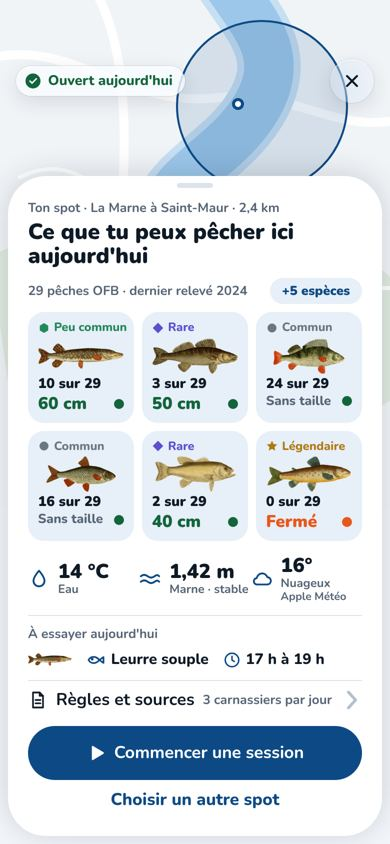
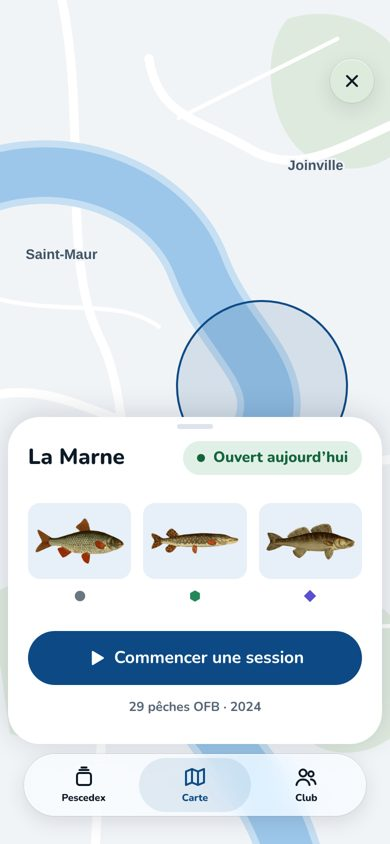
Design : fiche du spot P07 épurée (sans taille ni poids)
Claude-Session: https://claude.ai/code/session_01SHD9N8ay5HXbeEQZKxhWVP

diff --git a/docs/design/maquettes/P07-fiche-A.dc.html b/docs/design/maquettes/P07-fiche-A.dc.html
@@ -12,53 +12,19 @@
 <link rel="stylesheet" href="https://fonts.googleapis.com/css2?family=Nunito:wght@600;700;800;900&amp;display=swap">
 <style>
 body{margin:0}
-.ecran .p07-t{background:var(--tuile);padding:8px 10px 9px}
-.ecran .p07-big{padding:8px 12px 8px}
-.p07-t{position:relative;display:flex;flex-direction:column;align-items:stretch;text-align:left;min-width:0;background:var(--tuile);border-radius:16px;padding:8px 9px 9px;gap:2px}
-.p07-t .rar{font-size:12px;gap:4px}.p07-t .rar svg{width:12px;height:12px}
-.p07-im{display:grid;place-items:center;height:36px}
-.p07-im img{width:100%;height:36px}
-.p07-t b{font-size:14px;font-weight:900;color:var(--encre);font-variant-numeric:tabular-nums;line-height:1.15}
-.p07-bas{display:flex;align-items:center;justify-content:space-between;gap:6px}
-.p07-bas i{font-style:normal;font-size:17px;font-weight:900;color:var(--ouvert);line-height:1.15}
-.p07-bas.f i{color:var(--alerte)}
-.p07-bas i.n{font-size:13px;color:var(--encre-douce);font-weight:800}
-.p07-pt{width:10px;height:10px;border-radius:5px;flex:none}
-.p07-pt.o{background:var(--ouvert)}.p07-pt.f{background:var(--alerte)}
-.p07-chip{display:inline-flex;align-items:center;gap:6px;height:30px;padding:0 12px 0 8px;border-radius:15px;background:var(--ouvert-doux);color:var(--ouvert);font-size:14px;font-weight:800;white-space:nowrap}
-.p07-chip svg{width:18px;height:18px}
-.p07-cond{display:grid;grid-template-columns:1fr 1fr 1fr}
-.p07-c{display:flex;align-items:center;gap:8px;min-width:0}
-.p07-c svg{color:var(--marine)}
-.p07-c b{display:block;font-size:20px;font-weight:900;line-height:1.05;font-variant-numeric:tabular-nums;color:var(--encre)}
-.p07-c span{display:block;font-size:12px;font-weight:700;color:var(--encre-douce);line-height:1.2}
-.p07-conseil{display:flex;align-items:center;gap:14px;font-size:15px;font-weight:800;color:var(--encre);white-space:nowrap}
-.p07-conseil .e{display:flex;align-items:center;gap:5px}
-.p07-conseil svg{color:var(--marine)}
-.p07-conseil img{width:44px;height:24px}
-.p07-lien{display:flex;align-items:center;gap:8px;font-size:15px;font-weight:800;color:var(--marine);width:100%;height:36px}
-.p07-lien svg{width:20px;height:20px}
-
-.p07-plus{display:inline-flex;align-items:center;height:30px;padding:0 12px;border-radius:15px;background:var(--tuile);color:var(--marine);font-size:14px;font-weight:900}
-.p07-chip.verre{background:var(--verre);color:var(--ouvert)}
-
+.p07-ouvert,button.p07-ouvert{display:inline-flex;align-items:center;gap:8px;height:34px;padding:0 14px;border-radius:17px;background:#E1F0E7;color:#13643B;font-size:15px;font-weight:800;border:0;font-family:inherit}
+.p07-ouvert i{width:8px;height:8px;border-radius:4px;background:var(--ouvert)}
+.p07-f{flex:1;display:flex;flex-direction:column;align-items:center;gap:10px}
+.p07-f .rar svg{width:14px;height:14px}
 </style>
 </helmet>
-<div class="ecran">
-<img class="fond-carte" style="top:-338px" src="/_blob/358f1ded92a9e441995d46a2c2f81624" alt="Carte de la Marne"><div class="spot-cercle" style="left:176px;top:20px;width:172px;height:172px"></div><span class="station" style="left:232px;top:98px"></span>
-<div style="position:absolute;left:16px;right:16px;top:59px;display:flex;justify-content:space-between;align-items:center"><span class="p07-chip verre"><svg viewBox="0 0 24 24" aria-hidden="true" style="width:18px;height:18px;flex:none;"><path fill="currentColor" d="M12 2a10 10 0 1 0 0 20 10 10 0 0 0 0-20Zm-1.3 14.2-4-4 1.4-1.4 2.6 2.6 5.6-5.6 1.4 1.4Z"/></svg>Ouvert aujourd'hui</span><button class="rond verre" aria-label="Fermer" style="color:var(--encre)"><svg viewBox="0 0 24 24" aria-hidden="true" style="width:20px;height:20px;flex:none;"><path fill="none" stroke="currentColor" stroke-width="2.4" stroke-linecap="round" d="M6 6l12 12M18 6 6 18"/></svg></button></div>
-<div class="feuille" style="top:176px;bottom:8px;display:flex;flex-direction:column;padding-bottom:16px"><div class="poignee"></div>
-<div class="t-legende" style="white-space:nowrap">Ton spot · La Marne à Saint-Maur · 2,4 km</div>
-<h1 style="font-size:22px;font-weight:900;line-height:1.1;margin-top:3px">Ce que tu peux pêcher ici aujourd'hui</h1>
-<div style="display:flex;justify-content:space-between;align-items:center;margin-top:10px"><span class="t-legende">29 pêches OFB · dernier relevé 2024</span><span class="p07-plus" style="height:26px;font-size:13px">+5 espèces</span></div>
-<div style="display:grid;grid-template-columns:repeat(3,1fr);gap:8px;margin-top:8px"><button class="p07-t " aria-label="Brochet, peu commun, 10 pêches sur 29, taille minimale 60 cm, ouvert"><span class="rar pc"><svg viewBox="0 0 16 16" fill="currentColor" aria-hidden="true"><path d="M8 1.5 13.6 4.75v6.5L8 14.5 2.4 11.25v-6.5Z"/></svg><span>Peu commun</span></span><span class="p07-im"><img class="poisson" src="/_blob/325cfac7b539aef705c1b3f944fa8bcf" alt=""></span><b>10 sur 29</b><span class="p07-bas"><i class="">60 cm</i><span class="p07-pt o"></span></span></button><button class="p07-t " aria-label="Sandre, rare, 3 pêches sur 29, taille minimale 50 cm, ouvert"><span class="rar r"><svg viewBox="0 0 16 16" fill="currentColor" aria-hidden="true"><path d="M8 1 15 8 8 15 1 8Z"/></svg><span>Rare</span></span><span class="p07-im"><img class="poisson" src="/_blob/64752134d1301c8ae5245b9230566c2d" alt=""></span><b>3 sur 29</b><span class="p07-bas"><i class="">50 cm</i><span class="p07-pt o"></span></span></button><button class="p07-t " aria-label="Perche, commun, 24 pêches sur 29, ouvert"><span class="rar c"><svg viewBox="0 0 16 16" fill="currentColor" aria-hidden="true"><circle cx="8" cy="8" r="6"/></svg><span>Commun</span></span><span class="p07-im"><img class="poisson" src="/_blob/0af5e5e6f274e011d4317ff12600a103" alt=""></span><b>24 sur 29</b><span class="p07-bas"><i class="n">Sans taille</i><span class="p07-pt o"></span></span></button><button class="p07-t " aria-label="Gardon, commun, 16 pêches sur 29, ouvert"><span class="rar c"><svg viewBox="0 0 16 16" fill="currentColor" aria-hidden="true"><circle cx="8" cy="8" r="6"/></svg><span>Commun</span></span><span class="p07-im"><img class="poisson" src="/_blob/4799d66fb5fc82ab53e0051d38867b2d" alt=""></span><b>16 sur 29</b><span class="p07-bas"><i class="n">Sans taille</i><span class="p07-pt o"></span></span></button><button class="p07-t " aria-label="Black-bass, rare, 2 pêches sur 29, taille minimale 40 cm, ouvert"><span class="rar r"><svg viewBox="0 0 16 16" fill="currentColor" aria-hidden="true"><path d="M8 1 15 8 8 15 1 8Z"/></svg><span>Rare</span></span><span class="p07-im"><img class="poisson" src="/_blob/822cd2aa2361109755135f4ca4af8f47" alt=""></span><b>2 sur 29</b><span class="p07-bas"><i class="">40 cm</i><span class="p07-pt o"></span></span></button><button class="p07-t " aria-label="Truite fario, légendaire, 0 pêches sur 29, fermé"><span class="rar l"><svg viewBox="0 0 16 16" fill="currentColor" aria-hidden="true"><path d="m8 1 2.1 4.4 4.9.6-3.6 3.4.9 4.8L8 11.9l-4.3 2.3.9-4.8L1 6l4.9-.6Z"/></svg><span>Légendaire</span></span><span class="p07-im"><img class="poisson" src="/_blob/9c9a3e6836050e27289055b62c3d60d5" alt=""></span><b>0 sur 29</b><span class="p07-bas f"><i>Fermé</i><span class="p07-pt f"></span></span></button></div>
-<div class="p07-cond" style="margin-top:14px"><div class="p07-c"><svg viewBox="0 0 24 24" aria-hidden="true" style="width:22px;height:22px;flex:none;"><path fill="none" stroke="currentColor" stroke-width="2" stroke-linecap="round" stroke-linejoin="round" d="M12 3s6 6.5 6 11a6 6 0 0 1-12 0c0-4.5 6-11 6-11Z"/></svg><div><b>14 °C</b><span>Eau</span></div></div><div class="p07-c"><svg viewBox="0 0 24 24" aria-hidden="true" style="width:22px;height:22px;flex:none;"><path fill="none" stroke="currentColor" stroke-width="2" stroke-linecap="round" d="M2 9c2.5-2 5-2 7.5 0s5 2 7.5 0 3.5-1.5 5 0M2 15c2.5-2 5-2 7.5 0s5 2 7.5 0 3.5-1.5 5 0"/></svg><div><b>1,42 m</b><span>Marne · stable</span></div></div><div class="p07-c"><svg viewBox="0 0 24 24" aria-hidden="true" style="width:22px;height:22px;flex:none;"><path fill="none" stroke="currentColor" stroke-width="2" stroke-linejoin="round" d="M7 18h10.5a4 4 0 0 0 .4-8A6 6 0 0 0 6.3 11 3.5 3.5 0 0 0 7 18Z"/></svg><div><b>16°</b><span>Nuageux</span><span style="font-size:11px">Apple Météo</span></div></div></div>
-<div style="height:.5px;background:var(--filet);margin-top:12px"></div>
-<div style="margin-top:10px"><div class="t-legende" style="margin-bottom:5px">À essayer aujourd&#39;hui</div><div class="p07-conseil"><span class="e"><img class="poisson" src="/_blob/325cfac7b539aef705c1b3f944fa8bcf" alt="Brochet"></span><span class="e"><svg viewBox="0 0 24 24" aria-hidden="true" style="width:20px;height:20px;flex:none;"><g fill="none" stroke="currentColor" stroke-width="2" stroke-linecap="round" stroke-linejoin="round"><path d="M3 12c3-5 9-5 13 0-4 5-10 5-13 0Z"/><path d="M16 12l5-3.5v7Z"/><circle cx="7.5" cy="11" r=".6" fill="currentColor"/></g></svg>Leurre souple</span><span class="e"><svg viewBox="0 0 24 24" aria-hidden="true" style="width:18px;height:18px;flex:none;"><g fill="none" stroke="currentColor" stroke-width="2" stroke-linecap="round"><circle cx="12" cy="12" r="9"/><path d="M12 7v5l3 2"/></g></svg>17 h à 19 h</span></div></div>
-<div style="height:.5px;background:var(--filet);margin-top:8px"></div>
-<button class="p07-lien" style="margin-top:2px"><svg viewBox="0 0 24 24" aria-hidden="true" style="width:20px;height:20px;flex:none;"><g fill="none" stroke="currentColor" stroke-width="2" stroke-linecap="round" stroke-linejoin="round"><path d="M6 3h8l4 4v14H6Z"/><path d="M14 3v4h4M9 12h6M9 16h6"/></g></svg><span style="white-space:nowrap">Règles et sources</span><span class="t-legende" style="margin-left:auto;white-space:nowrap">3 carnassiers par jour</span><svg class="chevron" style="margin-left:2px" viewBox="0 0 8 14" aria-hidden="true"><path fill="none" stroke="currentColor" stroke-width="2" stroke-linecap="round" stroke-linejoin="round" d="m1.5 1.5 5 5.5-5 5.5"/></svg></button>
-<div style="margin-top:auto"><button class="btn pri"><svg viewBox="0 0 24 24" aria-hidden="true" style="width:20px;height:20px;flex:none;"><path fill="currentColor" d="M7 4.5v15a1 1 0 0 0 1.5.86l12.5-7.5a1 1 0 0 0 0-1.72L8.5 3.64A1 1 0 0 0 7 4.5Z"/></svg>Commencer une session</button><button class="lien" style="height:40px">Choisir un autre spot</button></div></div>
-</div>
+<div class="ecran"><img class="fond-carte" src="/_blob/358f1ded92a9e441995d46a2c2f81624" alt="Carte de la Marne"><div class="spot-cercle" style="left:176px;top:300px;width:172px;height:172px"></div>
+<button class="rond verre" aria-label="Fermer" style="position:absolute;right:16px;top:59px;color:var(--encre)"><svg viewBox="0 0 24 24" aria-hidden="true"><path fill="none" stroke="currentColor" stroke-width="2.4" stroke-linecap="round" d="M6 6l12 12M18 6 6 18"/></svg></button>
+<div class="feuille au-dessus" style="padding-bottom:28px"><div class="poignee"></div>
+<div style="display:flex;justify-content:space-between;align-items:center;margin-top:8px"><h2 class="t-titre">La Marne</h2><button class="p07-ouvert" aria-label="Ouvert aujourd'hui, voir les règles"><i></i>Ouvert aujourd’hui</button></div>
+<div style="display:flex;gap:12px;margin:28px 0 28px"><div class="p07-f"><div class="tuile-poisson" style="width:100%;height:76px"><img class="poisson" src="/_blob/4799d66fb5fc82ab53e0051d38867b2d" alt="gardon" style="width:86%;height:48px"></div><span class="rar c"><svg viewBox="0 0 16 16" fill="currentColor" aria-hidden="true"><circle cx="8" cy="8" r="6"/></svg></span></div><div class="p07-f"><div class="tuile-poisson" style="width:100%;height:76px"><img class="poisson" src="/_blob/325cfac7b539aef705c1b3f944fa8bcf" alt="brochet" style="width:86%;height:48px"></div><span class="rar pc"><svg viewBox="0 0 16 16" fill="currentColor" aria-hidden="true"><path d="M8 1.5 13.6 4.75v6.5L8 14.5 2.4 11.25v-6.5Z"/></svg></span></div><div class="p07-f"><div class="tuile-poisson" style="width:100%;height:76px"><img class="poisson" src="/_blob/64752134d1301c8ae5245b9230566c2d" alt="sandre" style="width:86%;height:48px"></div><span class="rar r"><svg viewBox="0 0 16 16" fill="currentColor" aria-hidden="true"><path d="M8 1 15 8 8 15 1 8Z"/></svg></span></div></div>
+<button class="btn pri"><svg viewBox="0 0 24 24" aria-hidden="true"><path fill="currentColor" d="M7 4.5v15a1 1 0 0 0 1.5.86l12.5-7.5a1 1 0 0 0 0-1.72L8.5 3.64A1 1 0 0 0 7 4.5Z"/></svg>Commencer une session</button>
+<div class="t-legende" style="text-align:center;margin-top:14px">29 pêches OFB · 2024</div></div><nav class="onglets verre" aria-label="Volets"><a class="onglet" href="#"><svg viewBox="0 0 24 24" fill="none" stroke="currentColor" stroke-width="2" stroke-linejoin="round" aria-hidden="true"><rect x="5" y="8" width="14" height="12" rx="2.5"/><path d="M7.5 5h9M9.5 2.5h5" stroke-linecap="round"/></svg><span>Pescedex</span></a><a class="onglet on" href="#"><svg viewBox="0 0 24 24" fill="none" stroke="currentColor" stroke-width="2" stroke-linejoin="round" aria-hidden="true"><path d="M3 6.5 9 4l6 2.5L21 4v13.5L15 20l-6-2.5L3 20Z"/><path d="M9 4v13.5M15 6.5V20"/></svg><span>Carte</span></a><a class="onglet" href="#"><svg viewBox="0 0 24 24" fill="none" stroke="currentColor" stroke-width="2" stroke-linecap="round" aria-hidden="true"><circle cx="9" cy="8" r="3.5"/><path d="M2.5 20c.6-3.6 3.3-5.5 6.5-5.5s5.9 1.9 6.5 5.5"/><circle cx="17" cy="9" r="2.6"/><path d="M17 14.4c2.4.2 4 1.8 4.5 4.6"/></svg><span>Club</span></a></nav></div>
 </x-dc>
 <script type="text/x-dc" data-dc-script data-props='{"$preview":{"width":390,"height":844}}'>
 class Component extends DCLogic {

diff --git a/docs/design/maquettes/P07-fiche-C.dc.html b/docs/design/maquettes/P07-fiche-C.dc.html
@@ -12,54 +12,18 @@
 <link rel="stylesheet" href="https://fonts.googleapis.com/css2?family=Nunito:wght@600;700;800;900&amp;display=swap">
 <style>
 body{margin:0}
-.ecran .p07-t{background:var(--tuile);padding:8px 10px 9px}
-.ecran .p07-big{padding:8px 12px 8px}
-.p07-t{position:relative;display:flex;flex-direction:column;align-items:stretch;text-align:left;min-width:0;background:var(--tuile);border-radius:16px;padding:8px 9px 9px;gap:2px}
-.p07-t .rar{font-size:12px;gap:4px}.p07-t .rar svg{width:12px;height:12px}
-.p07-im{display:grid;place-items:center;height:36px}
-.p07-im img{width:100%;height:36px}
-.p07-t b{font-size:14px;font-weight:900;color:var(--encre);font-variant-numeric:tabular-nums;line-height:1.15}
-.p07-bas{display:flex;align-items:center;justify-content:space-between;gap:6px}
-.p07-bas i{font-style:normal;font-size:17px;font-weight:900;color:var(--ouvert);line-height:1.15}
-.p07-bas.f i{color:var(--alerte)}
-.p07-bas i.n{font-size:13px;color:var(--encre-douce);font-weight:800}
-.p07-pt{width:10px;height:10px;border-radius:5px;flex:none}
-.p07-pt.o{background:var(--ouvert)}.p07-pt.f{background:var(--alerte)}
-.p07-chip{display:inline-flex;align-items:center;gap:6px;height:30px;padding:0 12px 0 8px;border-radius:15px;background:var(--ouvert-doux);color:var(--ouvert);font-size:14px;font-weight:800;white-space:nowrap}
-.p07-chip svg{width:18px;height:18px}
-.p07-cond{display:grid;grid-template-columns:1fr 1fr 1fr}
-.p07-c{display:flex;align-items:center;gap:8px;min-width:0}
-.p07-c svg{color:var(--marine)}
-.p07-c b{display:block;font-size:20px;font-weight:900;line-height:1.05;font-variant-numeric:tabular-nums;color:var(--encre)}
-.p07-c span{display:block;font-size:12px;font-weight:700;color:var(--encre-douce);line-height:1.2}
-.p07-conseil{display:flex;align-items:center;gap:14px;font-size:15px;font-weight:800;color:var(--encre);white-space:nowrap}
-.p07-conseil .e{display:flex;align-items:center;gap:5px}
-.p07-conseil svg{color:var(--marine)}
-.p07-conseil img{width:44px;height:24px}
-.p07-lien{display:flex;align-items:center;gap:8px;font-size:15px;font-weight:800;color:var(--marine);width:100%;height:36px}
-.p07-lien svg{width:20px;height:20px}
-
-.p07-plus{display:inline-flex;align-items:center;height:30px;padding:0 12px;border-radius:15px;background:var(--tuile);color:var(--marine);font-size:14px;font-weight:900}
-.p07-big{gap:2px;border-radius:20px}
-.p07-big .rar{font-size:13px}.p07-big .rar svg{width:14px;height:14px}
-.p07-big .p07-im{height:30px}.p07-big .p07-im img{height:30px;width:92%}
-.p07-big b{font-size:14px;color:var(--encre-douce)}
-.p07-big .p07-bas i{font-size:19px}.p07-big .p07-bas i.n{font-size:14px}
-
+.p07-ouvert,button.p07-ouvert{display:inline-flex;align-items:center;gap:8px;height:34px;padding:0 14px;border-radius:17px;background:#E1F0E7;color:#13643B;font-size:15px;font-weight:800;border:0;font-family:inherit}
+.p07-ouvert i{width:8px;height:8px;border-radius:4px;background:var(--ouvert)}
+.p07-f{flex:1;display:flex;flex-direction:column;align-items:center;gap:10px}
+.p07-f .rar svg{width:14px;height:14px}
 </style>
 </helmet>
 <div class="ecran blanc">
-<div style="position:absolute;left:16px;right:16px;top:59px;display:flex;justify-content:space-between;align-items:center;height:28px"><span class="t-detail" style="display:flex;gap:6px;align-items:center;color:var(--encre);white-space:nowrap"><svg style="width:16px;height:16px;color:var(--marine)" viewBox="0 0 24 24" aria-hidden="true"><path fill="currentColor" d="M12 2a7 7 0 0 0-7 7c0 5 7 13 7 13s7-8 7-13a7 7 0 0 0-7-7Zm0 9.5A2.5 2.5 0 1 1 12 6.5a2.5 2.5 0 0 1 0 5Z"/></svg>Ton spot · La Marne à Saint-Maur</span><span class="t-detail">2,4 km</span></div>
-<div style="position:absolute;left:16px;right:16px;top:94px"><h1 style="font-size:28px;font-weight:900;line-height:1.05;letter-spacing:-.01em">Ce que tu peux pêcher ici aujourd'hui</h1>
-<div style="margin-top:8px"><span class="p07-chip"><svg viewBox="0 0 24 24" aria-hidden="true" style="width:18px;height:18px;flex:none;"><path fill="currentColor" d="M12 2a10 10 0 1 0 0 20 10 10 0 0 0 0-20Zm-1.3 14.2-4-4 1.4-1.4 2.6 2.6 5.6-5.6 1.4 1.4Z"/></svg>Ouvert aujourd'hui</span></div>
-<div style="display:grid;grid-template-columns:1fr 1fr;gap:6px;margin-top:10px"><button class="p07-t p07-big" aria-label="Brochet, peu commun, 10 pêches sur 29, taille minimale 60 cm, ouvert"><span class="rar pc"><svg viewBox="0 0 16 16" fill="currentColor" aria-hidden="true"><path d="M8 1.5 13.6 4.75v6.5L8 14.5 2.4 11.25v-6.5Z"/></svg><span>Peu commun</span></span><span class="p07-im"><img class="poisson" src="/_blob/325cfac7b539aef705c1b3f944fa8bcf" alt=""></span><b>10 sur 29</b><span class="p07-bas"><i class="">60 cm</i><span class="p07-pt o"></span></span></button><button class="p07-t p07-big" aria-label="Sandre, rare, 3 pêches sur 29, taille minimale 50 cm, ouvert"><span class="rar r"><svg viewBox="0 0 16 16" fill="currentColor" aria-hidden="true"><path d="M8 1 15 8 8 15 1 8Z"/></svg><span>Rare</span></span><span class="p07-im"><img class="poisson" src="/_blob/64752134d1301c8ae5245b9230566c2d" alt=""></span><b>3 sur 29</b><span class="p07-bas"><i class="">50 cm</i><span class="p07-pt o"></span></span></button><button class="p07-t p07-big" aria-label="Perche, commun, 24 pêches sur 29, ouvert"><span class="rar c"><svg viewBox="0 0 16 16" fill="currentColor" aria-hidden="true"><circle cx="8" cy="8" r="6"/></svg><span>Commun</span></span><span class="p07-im"><img class="poisson" src="/_blob/0af5e5e6f274e011d4317ff12600a103" alt=""></span><b>24 sur 29</b><span class="p07-bas"><i class="n">Sans taille</i><span class="p07-pt o"></span></span></button><button class="p07-t p07-big" aria-label="Gardon, commun, 16 pêches sur 29, ouvert"><span class="rar c"><svg viewBox="0 0 16 16" fill="currentColor" aria-hidden="true"><circle cx="8" cy="8" r="6"/></svg><span>Commun</span></span><span class="p07-im"><img class="poisson" src="/_blob/4799d66fb5fc82ab53e0051d38867b2d" alt=""></span><b>16 sur 29</b><span class="p07-bas"><i class="n">Sans taille</i><span class="p07-pt o"></span></span></button><button class="p07-t p07-big" aria-label="Black-bass, rare, 2 pêches sur 29, taille minimale 40 cm, ouvert"><span class="rar r"><svg viewBox="0 0 16 16" fill="currentColor" aria-hidden="true"><path d="M8 1 15 8 8 15 1 8Z"/></svg><span>Rare</span></span><span class="p07-im"><img class="poisson" src="/_blob/822cd2aa2361109755135f4ca4af8f47" alt=""></span><b>2 sur 29</b><span class="p07-bas"><i class="">40 cm</i><span class="p07-pt o"></span></span></button><button class="p07-t p07-big" aria-label="Truite fario, légendaire, 0 pêches sur 29, fermé"><span class="rar l"><svg viewBox="0 0 16 16" fill="currentColor" aria-hidden="true"><path d="m8 1 2.1 4.4 4.9.6-3.6 3.4.9 4.8L8 11.9l-4.3 2.3.9-4.8L1 6l4.9-.6Z"/></svg><span>Légendaire</span></span><span class="p07-im"><img class="poisson" src="/_blob/9c9a3e6836050e27289055b62c3d60d5" alt=""></span><b>0 sur 29</b><span class="p07-bas f"><i>Fermé</i><span class="p07-pt f"></span></span></button></div>
-<div style="display:flex;justify-content:space-between;align-items:center;margin-top:8px"><span class="t-legende">29 pêches OFB · dernier relevé 2024</span><span class="p07-plus" style="height:24px;font-size:13px;background:none;padding:0">+5 espèces ›</span></div>
-<div class="p07-cond" style="margin-top:8px"><div class="p07-c"><svg viewBox="0 0 24 24" aria-hidden="true" style="width:22px;height:22px;flex:none;"><path fill="none" stroke="currentColor" stroke-width="2" stroke-linecap="round" stroke-linejoin="round" d="M12 3s6 6.5 6 11a6 6 0 0 1-12 0c0-4.5 6-11 6-11Z"/></svg><div><b>14 °C</b><span>Eau</span></div></div><div class="p07-c"><svg viewBox="0 0 24 24" aria-hidden="true" style="width:22px;height:22px;flex:none;"><path fill="none" stroke="currentColor" stroke-width="2" stroke-linecap="round" d="M2 9c2.5-2 5-2 7.5 0s5 2 7.5 0 3.5-1.5 5 0M2 15c2.5-2 5-2 7.5 0s5 2 7.5 0 3.5-1.5 5 0"/></svg><div><b>1,42 m</b><span>Marne · stable</span></div></div><div class="p07-c"><svg viewBox="0 0 24 24" aria-hidden="true" style="width:22px;height:22px;flex:none;"><path fill="none" stroke="currentColor" stroke-width="2" stroke-linejoin="round" d="M7 18h10.5a4 4 0 0 0 .4-8A6 6 0 0 0 6.3 11 3.5 3.5 0 0 0 7 18Z"/></svg><div><b>16°</b><span>Nuageux</span><span style="font-size:11px">Apple Météo</span></div></div></div>
-<div style="margin-top:8px"><div class="t-legende" style="margin-bottom:5px">À essayer aujourd&#39;hui</div><div class="p07-conseil"><span class="e"><img class="poisson" src="/_blob/325cfac7b539aef705c1b3f944fa8bcf" alt="Brochet"></span><span class="e"><svg viewBox="0 0 24 24" aria-hidden="true" style="width:20px;height:20px;flex:none;"><g fill="none" stroke="currentColor" stroke-width="2" stroke-linecap="round" stroke-linejoin="round"><path d="M3 12c3-5 9-5 13 0-4 5-10 5-13 0Z"/><path d="M16 12l5-3.5v7Z"/><circle cx="7.5" cy="11" r=".6" fill="currentColor"/></g></svg>Leurre souple</span><span class="e"><svg viewBox="0 0 24 24" aria-hidden="true" style="width:18px;height:18px;flex:none;"><g fill="none" stroke="currentColor" stroke-width="2" stroke-linecap="round"><circle cx="12" cy="12" r="9"/><path d="M12 7v5l3 2"/></g></svg>17 h à 19 h</span></div></div>
-<button class="p07-lien" style="margin-top:2px"><svg viewBox="0 0 24 24" aria-hidden="true" style="width:20px;height:20px;flex:none;"><g fill="none" stroke="currentColor" stroke-width="2" stroke-linecap="round" stroke-linejoin="round"><path d="M6 3h8l4 4v14H6Z"/><path d="M14 3v4h4M9 12h6M9 16h6"/></g></svg><span style="white-space:nowrap">Règles et sources</span><span class="t-legende" style="margin-left:auto;white-space:nowrap">3 carnassiers par jour</span><svg class="chevron" style="margin-left:2px" viewBox="0 0 8 14" aria-hidden="true"><path fill="none" stroke="currentColor" stroke-width="2" stroke-linecap="round" stroke-linejoin="round" d="m1.5 1.5 5 5.5-5 5.5"/></svg></button>
-</div>
-<div style="position:absolute;left:16px;right:16px;bottom:24px"><button class="btn pri"><svg viewBox="0 0 24 24" aria-hidden="true" style="width:20px;height:20px;flex:none;"><path fill="currentColor" d="M7 4.5v15a1 1 0 0 0 1.5.86l12.5-7.5a1 1 0 0 0 0-1.72L8.5 3.64A1 1 0 0 0 7 4.5Z"/></svg>Commencer une session</button><button class="lien" style="height:40px">Choisir un autre spot</button></div>
-</div>
+<div class="haut" style="display:flex;justify-content:space-between;align-items:center"><span class="t-detail" style="display:flex;gap:6px;align-items:center;color:var(--encre)"><svg style="width:16px;height:16px;color:var(--marine)" viewBox="0 0 24 24" aria-hidden="true"><path fill="currentColor" d="M12 2a7 7 0 0 0-7 7c0 5 7 13 7 13s7-8 7-13a7 7 0 0 0-7-7Zm0 9.5A2.5 2.5 0 1 1 12 6.5a2.5 2.5 0 0 1 0 5Z"/></svg>La Marne</span><button class="rond" aria-label="Fermer" style="background:var(--tuile);color:var(--encre)"><svg viewBox="0 0 24 24" aria-hidden="true"><path fill="none" stroke="currentColor" stroke-width="2.4" stroke-linecap="round" d="M6 6l12 12M18 6 6 18"/></svg></button></div>
+<img class="poisson" src="/_blob/64752134d1301c8ae5245b9230566c2d" alt="Sandre" style="position:absolute;left:20px;top:200px;width:350px;height:170px">
+<div style="position:absolute;left:0;right:0;top:396px;display:flex;flex-direction:column;align-items:center;gap:10px"><h1 class="t-grand">Sandre</h1><span class="rar r"><svg viewBox="0 0 16 16" fill="currentColor" aria-hidden="true"><path d="M8 1 15 8 8 15 1 8Z"/></svg><span>Rare</span></span></div>
+<div style="position:absolute;left:0;right:0;top:530px;display:flex;flex-direction:column;align-items:center;gap:22px"><div style="display:flex;gap:28px;align-items:flex-end"><div class="p07-f"><img class="poisson" src="/_blob/4799d66fb5fc82ab53e0051d38867b2d" alt="gardon" style="width:78px;height:38px"><span class="rar c"><svg viewBox="0 0 16 16" fill="currentColor" aria-hidden="true"><circle cx="8" cy="8" r="6"/></svg></span></div><div class="p07-f"><img class="poisson" src="/_blob/325cfac7b539aef705c1b3f944fa8bcf" alt="brochet" style="width:78px;height:38px"><span class="rar pc"><svg viewBox="0 0 16 16" fill="currentColor" aria-hidden="true"><path d="M8 1.5 13.6 4.75v6.5L8 14.5 2.4 11.25v-6.5Z"/></svg></span></div><div class="p07-f"><img class="poisson" src="/_blob/0af5e5e6f274e011d4317ff12600a103" alt="perche" style="width:78px;height:38px"><span class="rar c"><svg viewBox="0 0 16 16" fill="currentColor" aria-hidden="true"><circle cx="8" cy="8" r="6"/></svg></span></div></div><button class="p07-ouvert" aria-label="Ouvert aujourd'hui, voir les règles"><i></i>Ouvert aujourd’hui</button></div>
+<div style="position:absolute;left:16px;right:16px;bottom:48px"><button class="btn pri"><svg viewBox="0 0 24 24" aria-hidden="true"><path fill="currentColor" d="M7 4.5v15a1 1 0 0 0 1.5.86l12.5-7.5a1 1 0 0 0 0-1.72L8.5 3.64A1 1 0 0 0 7 4.5Z"/></svg>Commencer une session</button><div class="t-legende" style="text-align:center;margin-top:14px">29 pêches OFB · 2024</div></div></div>
 </x-dc>
 <script type="text/x-dc" data-dc-script data-props='{"$preview":{"width":390,"height":844}}'>
 class Component extends DCLogic {

diff --git a/docs/design/maquettes/P07-fiche-B.dc.html b/docs/design/maquettes/P07-fiche-B.dc.html
@@ -12,48 +12,19 @@
 <link rel="stylesheet" href="https://fonts.googleapis.com/css2?family=Nunito:wght@600;700;800;900&amp;display=swap">
 <style>
 body{margin:0}
-.ecran .p07-t{background:var(--tuile);padding:8px 10px 9px}
-.ecran .p07-big{padding:8px 12px 8px}
-.p07-t{position:relative;display:flex;flex-direction:column;align-items:stretch;text-align:left;min-width:0;background:var(--tuile);border-radius:16px;padding:8px 9px 9px;gap:2px}
-.p07-t .rar{font-size:12px;gap:4px}.p07-t .rar svg{width:12px;height:12px}
-.p07-im{display:grid;place-items:center;height:36px}
-.p07-im img{width:100%;height:36px}
-.p07-t b{font-size:14px;font-weight:900;color:var(--encre);font-variant-numeric:tabular-nums;line-height:1.15}
-.p07-bas{display:flex;align-items:center;justify-content:space-between;gap:6px}
-.p07-bas i{font-style:normal;font-size:17px;font-weight:900;color:var(--ouvert);line-height:1.15}
-.p07-bas.f i{color:var(--alerte)}
-.p07-bas i.n{font-size:13px;color:var(--encre-douce);font-weight:800}
-.p07-pt{width:10px;height:10px;border-radius:5px;flex:none}
-.p07-pt.o{background:var(--ouvert)}.p07-pt.f{background:var(--alerte)}
-.p07-chip{display:inline-flex;align-items:center;gap:6px;height:30px;padding:0 12px 0 8px;border-radius:15px;background:var(--ouvert-doux);color:var(--ouvert);font-size:14px;font-weight:800;white-space:nowrap}
-.p07-chip svg{width:18px;height:18px}
-.p07-cond{display:grid;grid-template-columns:1fr 1fr 1fr}
-.p07-c{display:flex;align-items:center;gap:8px;min-width:0}
-.p07-c svg{color:var(--marine)}
-.p07-c b{display:block;font-size:20px;font-weight:900;line-height:1.05;font-variant-numeric:tabular-nums;color:var(--encre)}
-.p07-c span{display:block;font-size:12px;font-weight:700;color:var(--encre-douce);line-height:1.2}
-.p07-conseil{display:flex;align-items:center;gap:14px;font-size:15px;font-weight:800;color:var(--encre);white-space:nowrap}
-.p07-conseil .e{display:flex;align-items:center;gap:5px}
-.p07-conseil svg{color:var(--marine)}
-.p07-conseil img{width:44px;height:24px}
-.p07-lien{display:flex;align-items:center;gap:8px;font-size:15px;font-weight:800;color:var(--marine);width:100%;height:36px}
-.p07-lien svg{width:20px;height:20px}
-
-.p07-plus{display:inline-flex;align-items:center;height:30px;padding:0 12px;border-radius:15px;background:var(--tuile);color:var(--marine);font-size:14px;font-weight:900}
-
+.p07-ouvert,button.p07-ouvert{display:inline-flex;align-items:center;gap:8px;height:34px;padding:0 14px;border-radius:17px;background:#E1F0E7;color:#13643B;font-size:15px;font-weight:800;border:0;font-family:inherit}
+.p07-ouvert i{width:8px;height:8px;border-radius:4px;background:var(--ouvert)}
+.p07-f{flex:1;display:flex;flex-direction:column;align-items:center;gap:10px}
+.p07-f .rar svg{width:14px;height:14px}
 </style>
 </helmet>
 <div class="ecran">
-<div style="position:absolute;left:16px;right:16px;top:59px;display:flex;justify-content:space-between;align-items:center"><button class="rond" aria-label="Retour" style="background:var(--surface);color:var(--marine)"><svg viewBox="0 0 24 24" aria-hidden="true" style="width:20px;height:20px;flex:none;"><path fill="none" stroke="currentColor" stroke-width="2.4" stroke-linecap="round" stroke-linejoin="round" d="M15 5l-7 7 7 7"/></svg></button><span class="p07-chip"><svg viewBox="0 0 24 24" aria-hidden="true" style="width:18px;height:18px;flex:none;"><path fill="currentColor" d="M12 2a10 10 0 1 0 0 20 10 10 0 0 0 0-20Zm-1.3 14.2-4-4 1.4-1.4 2.6 2.6 5.6-5.6 1.4 1.4Z"/></svg>Ouvert aujourd'hui</span></div>
-<div style="position:absolute;left:16px;right:16px;top:112px"><h1 style="font-size:29px;font-weight:900;line-height:1.05;letter-spacing:-.01em">Ce que tu peux pêcher ici aujourd'hui</h1><div class="t-detail" style="margin-top:6px;white-space:nowrap">Ton spot · La Marne à Saint-Maur · 2,4 km</div></div>
-<div style="position:absolute;left:16px;right:16px;top:206px">
-<div style="display:flex;justify-content:space-between;align-items:center;padding:0 4px 6px"><span class="t-legende">29 pêches OFB · dernier relevé 2024</span><span class="p07-plus" style="height:26px;font-size:13px;background:none;padding:0">+5 espèces ›</span></div>
-<div class="groupe" style="padding:8px"><div style="display:grid;grid-template-columns:repeat(3,1fr);gap:8px"><button class="p07-t " aria-label="Brochet, peu commun, 10 pêches sur 29, taille minimale 60 cm, ouvert"><span class="rar pc"><svg viewBox="0 0 16 16" fill="currentColor" aria-hidden="true"><path d="M8 1.5 13.6 4.75v6.5L8 14.5 2.4 11.25v-6.5Z"/></svg><span>Peu commun</span></span><span class="p07-im"><img class="poisson" src="/_blob/325cfac7b539aef705c1b3f944fa8bcf" alt=""></span><b>10 sur 29</b><span class="p07-bas"><i class="">60 cm</i><span class="p07-pt o"></span></span></button><button class="p07-t " aria-label="Sandre, rare, 3 pêches sur 29, taille minimale 50 cm, ouvert"><span class="rar r"><svg viewBox="0 0 16 16" fill="currentColor" aria-hidden="true"><path d="M8 1 15 8 8 15 1 8Z"/></svg><span>Rare</span></span><span class="p07-im"><img class="poisson" src="/_blob/64752134d1301c8ae5245b9230566c2d" alt=""></span><b>3 sur 29</b><span class="p07-bas"><i class="">50 cm</i><span class="p07-pt o"></span></span></button><button class="p07-t " aria-label="Perche, commun, 24 pêches sur 29, ouvert"><span class="rar c"><svg viewBox="0 0 16 16" fill="currentColor" aria-hidden="true"><circle cx="8" cy="8" r="6"/></svg><span>Commun</span></span><span class="p07-im"><img class="poisson" src="/_blob/0af5e5e6f274e011d4317ff12600a103" alt=""></span><b>24 sur 29</b><span class="p07-bas"><i class="n">Sans taille</i><span class="p07-pt o"></span></span></button><button class="p07-t " aria-label="Gardon, commun, 16 pêches sur 29, ouvert"><span class="rar c"><svg viewBox="0 0 16 16" fill="currentColor" aria-hidden="true"><circle cx="8" cy="8" r="6"/></svg><span>Commun</span></span><span class="p07-im"><img class="poisson" src="/_blob/4799d66fb5fc82ab53e0051d38867b2d" alt=""></span><b>16 sur 29</b><span class="p07-bas"><i class="n">Sans taille</i><span class="p07-pt o"></span></span></button><button class="p07-t " aria-label="Black-bass, rare, 2 pêches sur 29, taille minimale 40 cm, ouvert"><span class="rar r"><svg viewBox="0 0 16 16" fill="currentColor" aria-hidden="true"><path d="M8 1 15 8 8 15 1 8Z"/></svg><span>Rare</span></span><span class="p07-im"><img class="poisson" src="/_blob/822cd2aa2361109755135f4ca4af8f47" alt=""></span><b>2 sur 29</b><span class="p07-bas"><i class="">40 cm</i><span class="p07-pt o"></span></span></button><button class="p07-t " aria-label="Truite fario, légendaire, 0 pêches sur 29, fermé"><span class="rar l"><svg viewBox="0 0 16 16" fill="currentColor" aria-hidden="true"><path d="m8 1 2.1 4.4 4.9.6-3.6 3.4.9 4.8L8 11.9l-4.3 2.3.9-4.8L1 6l4.9-.6Z"/></svg><span>Légendaire</span></span><span class="p07-im"><img class="poisson" src="/_blob/9c9a3e6836050e27289055b62c3d60d5" alt=""></span><b>0 sur 29</b><span class="p07-bas f"><i>Fermé</i><span class="p07-pt f"></span></span></button></div></div>
-<div class="groupe" style="padding:14px 12px;margin-top:12px"><div class="p07-cond" style=""><div class="p07-c"><svg viewBox="0 0 24 24" aria-hidden="true" style="width:22px;height:22px;flex:none;"><path fill="none" stroke="currentColor" stroke-width="2" stroke-linecap="round" stroke-linejoin="round" d="M12 3s6 6.5 6 11a6 6 0 0 1-12 0c0-4.5 6-11 6-11Z"/></svg><div><b>14 °C</b><span>Eau</span></div></div><div class="p07-c"><svg viewBox="0 0 24 24" aria-hidden="true" style="width:22px;height:22px;flex:none;"><path fill="none" stroke="currentColor" stroke-width="2" stroke-linecap="round" d="M2 9c2.5-2 5-2 7.5 0s5 2 7.5 0 3.5-1.5 5 0M2 15c2.5-2 5-2 7.5 0s5 2 7.5 0 3.5-1.5 5 0"/></svg><div><b>1,42 m</b><span>Marne · stable</span></div></div><div class="p07-c"><svg viewBox="0 0 24 24" aria-hidden="true" style="width:22px;height:22px;flex:none;"><path fill="none" stroke="currentColor" stroke-width="2" stroke-linejoin="round" d="M7 18h10.5a4 4 0 0 0 .4-8A6 6 0 0 0 6.3 11 3.5 3.5 0 0 0 7 18Z"/></svg><div><b>16°</b><span>Nuageux</span><span style="font-size:11px">Apple Météo</span></div></div></div></div>
-<div class="groupe" style="margin-top:12px"><div class="ligne" style="min-height:64px"><div style=""><div class="t-legende" style="margin-bottom:5px">À essayer aujourd&#39;hui</div><div class="p07-conseil"><span class="e"><img class="poisson" src="/_blob/325cfac7b539aef705c1b3f944fa8bcf" alt="Brochet"></span><span class="e"><svg viewBox="0 0 24 24" aria-hidden="true" style="width:20px;height:20px;flex:none;"><g fill="none" stroke="currentColor" stroke-width="2" stroke-linecap="round" stroke-linejoin="round"><path d="M3 12c3-5 9-5 13 0-4 5-10 5-13 0Z"/><path d="M16 12l5-3.5v7Z"/><circle cx="7.5" cy="11" r=".6" fill="currentColor"/></g></svg>Leurre souple</span><span class="e"><svg viewBox="0 0 24 24" aria-hidden="true" style="width:18px;height:18px;flex:none;"><g fill="none" stroke="currentColor" stroke-width="2" stroke-linecap="round"><circle cx="12" cy="12" r="9"/><path d="M12 7v5l3 2"/></g></svg>17 h à 19 h</span></div></div></div><div class="ligne" style="min-height:48px"><span class="texte" style="display:flex;align-items:center;gap:10px;color:var(--marine);white-space:nowrap"><svg viewBox="0 0 24 24" aria-hidden="true" style="width:20px;height:20px;flex:none;"><g fill="none" stroke="currentColor" stroke-width="2" stroke-linecap="round" stroke-linejoin="round"><path d="M6 3h8l4 4v14H6Z"/><path d="M14 3v4h4M9 12h6M9 16h6"/></g></svg>Règles et sources</span><span class="valeur" style="font-size:13px;white-space:nowrap">3 carnassiers par jour</span><svg class="chevron" viewBox="0 0 8 14" aria-hidden="true"><path fill="none" stroke="currentColor" stroke-width="2" stroke-linecap="round" stroke-linejoin="round" d="m1.5 1.5 5 5.5-5 5.5"/></svg></div></div>
-</div>
-<div style="position:absolute;left:16px;right:16px;bottom:30px"><button class="btn pri"><svg viewBox="0 0 24 24" aria-hidden="true" style="width:20px;height:20px;flex:none;"><path fill="currentColor" d="M7 4.5v15a1 1 0 0 0 1.5.86l12.5-7.5a1 1 0 0 0 0-1.72L8.5 3.64A1 1 0 0 0 7 4.5Z"/></svg>Commencer une session</button><button class="lien" style="height:40px">Choisir un autre spot</button></div>
-</div>
+<div class="haut"></div>
+<div class="zone" style="margin-top:8px"><h1 class="t-grand">La Marne</h1><div class="t-detail" style="margin-top:4px">Ton spot · 2,4 km</div></div>
+<div class="zone" style="margin-top:32px"><div class="groupe" style="padding:20px 16px 16px"><div style="display:flex;gap:12px"><div class="p07-f"><div class="tuile-poisson" style="width:100%;height:84px"><img class="poisson" src="/_blob/4799d66fb5fc82ab53e0051d38867b2d" alt="gardon" style="width:88%;height:50px"></div><span class="rar c"><svg viewBox="0 0 16 16" fill="currentColor" aria-hidden="true"><circle cx="8" cy="8" r="6"/></svg></span></div><div class="p07-f"><div class="tuile-poisson" style="width:100%;height:84px"><img class="poisson" src="/_blob/0af5e5e6f274e011d4317ff12600a103" alt="perche" style="width:88%;height:50px"></div><span class="rar c"><svg viewBox="0 0 16 16" fill="currentColor" aria-hidden="true"><circle cx="8" cy="8" r="6"/></svg></span></div><div class="p07-f"><div class="tuile-poisson" style="width:100%;height:84px"><img class="poisson" src="/_blob/325cfac7b539aef705c1b3f944fa8bcf" alt="brochet" style="width:88%;height:50px"></div><span class="rar pc"><svg viewBox="0 0 16 16" fill="currentColor" aria-hidden="true"><path d="M8 1.5 13.6 4.75v6.5L8 14.5 2.4 11.25v-6.5Z"/></svg></span></div><div class="p07-f"><div class="tuile-poisson" style="width:100%;height:84px"><img class="poisson" src="/_blob/64752134d1301c8ae5245b9230566c2d" alt="sandre" style="width:88%;height:50px"></div><span class="rar r"><svg viewBox="0 0 16 16" fill="currentColor" aria-hidden="true"><path d="M8 1 15 8 8 15 1 8Z"/></svg></span></div></div></div>
+<div class="t-legende" style="margin:10px 16px 0">29 pêches OFB · 2024</div>
+<div class="groupe" style="margin-top:24px"><div class="ligne" style="min-height:64px"><span class="p07-ouvert" style="background:none;padding:0;gap:12px;font-size:17px;height:auto"><i style="width:10px;height:10px;border-radius:5px"></i>Ouvert aujourd’hui</span><span style="flex:1"></span><svg class="chevron" style="color:var(--encre-douce)" viewBox="0 0 8 14" aria-hidden="true"><path fill="none" stroke="currentColor" stroke-width="2" stroke-linecap="round" stroke-linejoin="round" d="m1.5 1.5 5 5.5-5 5.5"/></svg></div></div></div>
+<div style="position:absolute;left:16px;right:16px;bottom:48px"><button class="btn pri"><svg viewBox="0 0 24 24" aria-hidden="true"><path fill="currentColor" d="M7 4.5v15a1 1 0 0 0 1.5.86l12.5-7.5a1 1 0 0 0 0-1.72L8.5 3.64A1 1 0 0 0 7 4.5Z"/></svg>Commencer une session</button></div></div>
 </x-dc>
 <script type="text/x-dc" data-dc-script data-props='{"$preview":{"width":390,"height":844}}'>
 class Component extends DCLogic {
